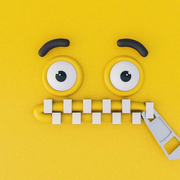
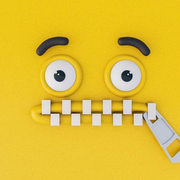
fix(icone): remove maskable (causava fundo branco no iOS) + metas apple + reenquadra; v0.7

diff --git a/index.html b/index.html
@@ -7,6 +7,9 @@
 <meta name="theme-color" content="#0a0e17">
 <link rel="manifest" href="manifest.json">
 <link rel="apple-touch-icon" href="apple-touch-icon.png">
+<meta name="apple-mobile-web-app-capable" content="yes">
+<meta name="apple-mobile-web-app-status-bar-style" content="black-translucent">
+<meta name="apple-mobile-web-app-title" content="Fala direito!">
 <!-- Tipografia premium: Space Grotesk (display/números) + Inter (corpo) -->
 <link rel="preconnect" href="https://fonts.googleapis.com">
 <link rel="preconnect" href="https://fonts.gstatic.com" crossorigin>
@@ -363,7 +366,7 @@ body {
 
     </div>
   </div>
-  <div class="footer">FALA DIREITO! · FASE 1 · v0.6</div>
+  <div class="footer">FALA DIREITO! · FASE 1 · v0.7</div>
 </div>
 
 <script>